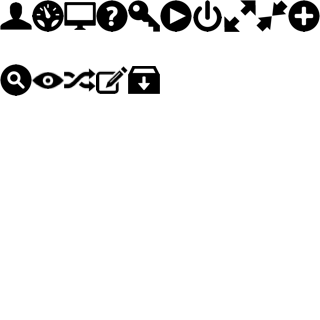
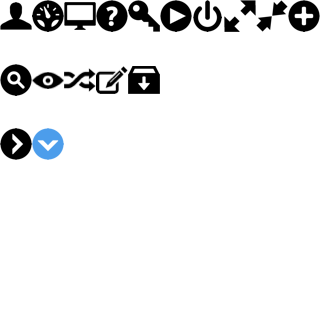
tree structure definition

Changed region(s): [[0.0, 0.375, 0.2188, 0.5]]

diff --git a/app/assets/stylesheets/_redesign-tree.scss b/app/assets/stylesheets/_redesign-tree.scss
@@ -3,10 +3,31 @@
 ul.tree {
   @include reset-list();
   li.main {
+    @include clearfix();
     border-bottom:1px solid $lightGray;
-    line-height:28px;
+    cursor:pointer;
+    line-height:32px;
+    padding:0 6px;
     &:last-child {
       border-bottom:none;
     }
+    .code {
+      font-weight:bold;
+    }
+    .info {
+      color:$text;
+    }
+    &:hover {
+      background:lighten(#ccf1ff,5%);
+      border-color:darken(#ccf1ff,10%);
+    }
+  }
+  .tree-content {
+    margin-left:24px;
+  }
+  p {
+    font-size:11px;
+    line-height:14px;
+    color:$text;
   }
 }

diff --git a/app/assets/stylesheets/_icons.scss b/app/assets/stylesheets/_icons.scss
@@ -4,7 +4,8 @@
  */
 
 
-[class^="grcicon-"] {
+[class^="grcicon-"],
+.showhide {
   display: inline-block;
   width: 16px;
   height: 16px;
@@ -311,5 +312,20 @@
   }
   &.small-expander {
     margin: 3px 4px 0 -2px;
+  }
+}
+
+.showhide {
+  @include new-icons();
+  background-position:0 -64px;
+  cursor:pointer;
+  @include opacity(0.5);
+  @include transition(opacity 0.4s);
+  &:hover {
+    @include opacity(0.8);
+  }
+  &.active {
+    background-position:-16px -64px;
+    @include opacity(1);
   }
 }

diff --git a/app/assets/stylesheets/_redesign-setup.scss b/app/assets/stylesheets/_redesign-setup.scss
@@ -11,6 +11,10 @@
     $widgetHeader: #ccc;
     $widgetTitle: #666;
 
+  // texts
+
+    $text:#666;
+
   $headerBgnd: #3f4145;
   $menuLink: #d7dce8;
   $screenBgnd: #323438;

diff --git a/app/assets/stylesheets/_redesign-common.scss b/app/assets/stylesheets/_redesign-common.scss
@@ -97,3 +97,10 @@ h4 {
     @include outline-fix();
   }
 }
+
+// show hide
+
+.showhide {
+  float:left;
+  margin-top:8px;
+}
